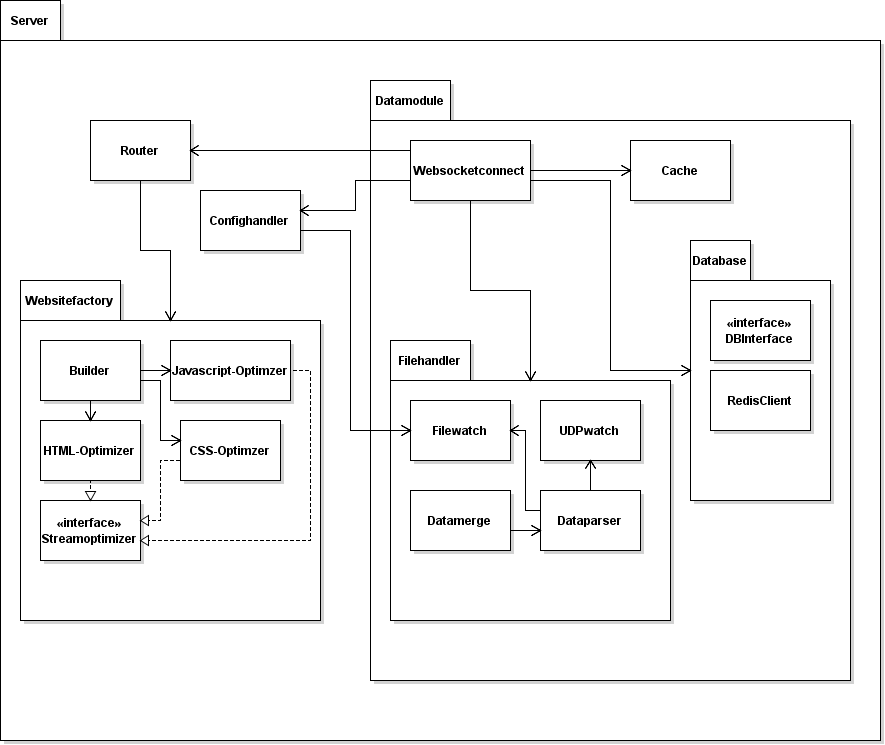
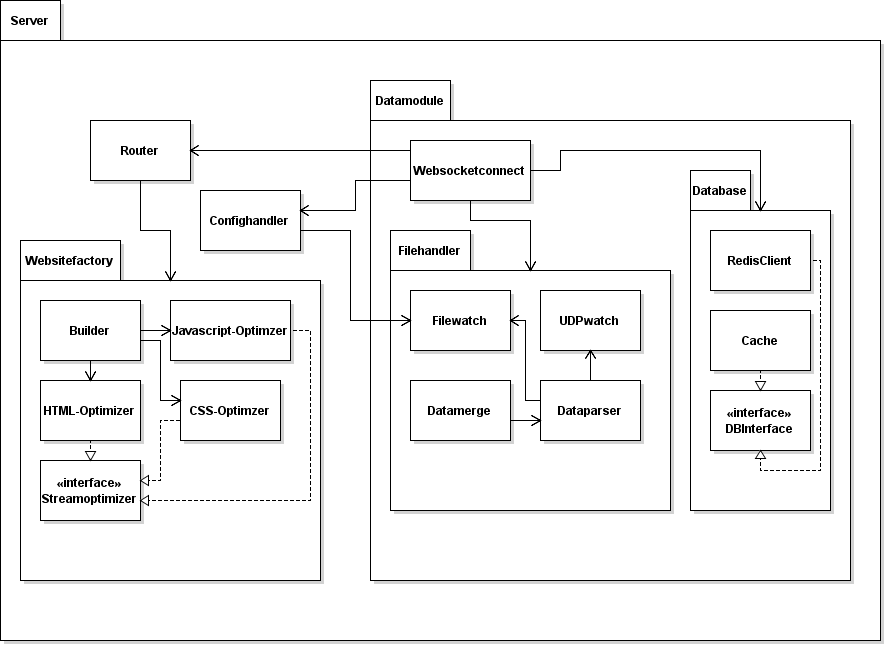
cache to db-interface, graph fixes

diff --git a/src/gui/index.html b/src/gui/index.html
@@ -334,7 +334,7 @@
               <section class="flex"></section>
 
               <icon-button-element id="toggleStartButton" toggles ipc-event="server-toggle" on-tap="sendEvent" icon="play-arrow" isRunning$="[[isRunning]]" aria-label="Server"></icon-button-element>
-              
+
               <icon-button-element id="files" toggles icon="description" aria-label="Konfigurationsdateien"></icon-button-element>
 
               <dropdown-element id="dropdown" for="files" position="top" align="end" offset="6" target-toggle-event="tap">
@@ -423,8 +423,8 @@
                 <iron-icon icon="assessment"></iron-icon>
                 <span>Datenbanktyp</span>
                 <select value="{{databaseConfig.type::input}}">
-                  <option value="">-</option>
-                  <option value="redis">redis</option>
+                  <option value="cache">(Cache)</option>
+                  <option value="redis">Redis</option>
                 </select>
               </webvisual-selectbox>
 

diff --git a/docs/README.md b/docs/README.md
@@ -228,7 +228,7 @@ Eine [Single Page Application] wird eine Webanwendung bezeichnet, die aus einem 
 
 ## Vorgehensweise
 
-Die Einführung eines **Datenbanksystem** s auf der Seite des Servers führte zur Wahl eines -Servers. Zur Anbindung wurde das node-package _redis-client_ verwendet, das einzelne Befehlsketten zu Strings konkateniert und Verbindungen zum Datenbankserver etablieren kann. Zu dem wurde ein Interface erstellt, mit dem sich zu einem späteren Zeitpunkt auch ein anderes Datenbanksystem verwenden lassen lässt und für den Webserver die gleiche Schnittstelle liefert.
+Die Einführung eines **Datenbanksystem** s auf der Seite des Servers führte zur Wahl eines -Servers. Zur Anbindung wurde das node-package _redis-client_ verwendet, das einzelne Befehlsketten zu Strings konkateniert und Verbindungen zum Datenbankserver etablieren kann. Zu dem wurde ein Interface erstellt, mit dem sich zu einem späteren Zeitpunkt auch ein anderes Datenbanksystem verwenden lassen lässt und für den Webserver die gleiche Schnittstelle liefert. Als Alternative ist auch ein Cache implementiert, der eine Datenbankverbindung emuliert.
 
 ![image](img/dbserver.png)
 
@@ -259,7 +259,7 @@ Das Serversystem besteht aus verschiedenen Einheiten, die für die Seminararbeit
 
 - Das **Cache**-Modul erzeugt einen temporären Cache für die Messwerte.
 
-- Das **Datenbank**-Modul erzeugt eine Datenbankschnittstelle für die Messwerte.
+- Das **Datenbank**-Modul erzeugt eine Datenbankschnittstelle zu einem Datenbankserver für die Messwerte. Alternativ zum Redis-Client, lässt sich ein Cache verwenden, der die Daten im Arbeitsspeicher speichert und eine Datenbankverbindung emuliert.
 
 ![Aufbau der Webseite<span
 data-label="fig:website"></span>](img/website.png)
